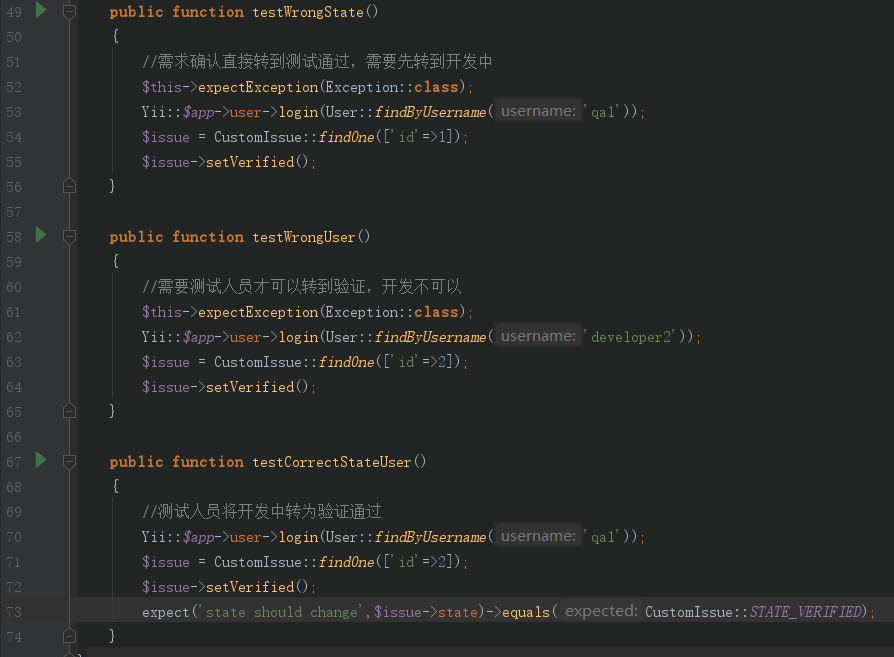
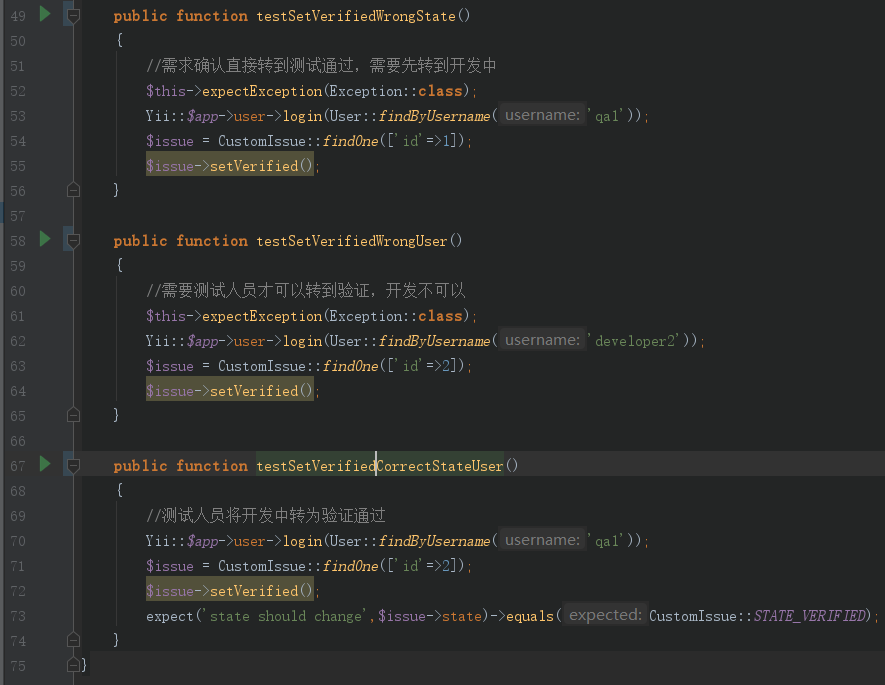
test-code

diff --git a/common/tests/unit/models/custom/CustomIssueTest.php b/common/tests/unit/models/custom/CustomIssueTest.php
@@ -46,7 +46,7 @@ class CustomIssueTest extends \Codeception\Test\Unit
         ];
     }
 
-    public function testWrongState()
+    public function testSetVerifiedWrongState()
     {
         //需求确认直接转到测试通过，需要先转到开发中
         $this->expectException(Exception::class);
@@ -55,7 +55,7 @@ class CustomIssueTest extends \Codeception\Test\Unit
         $issue->setVerified();
     }
 
-    public function testWrongUser()
+    public function testSetVerifiedWrongUser()
     {
         //需要测试人员才可以转到验证，开发不可以
         $this->expectException(Exception::class);
@@ -64,7 +64,7 @@ class CustomIssueTest extends \Codeception\Test\Unit
         $issue->setVerified();
     }
 
-    public function testCorrectStateUser()
+    public function testSetVerifiedCorrectStateUser()
     {
         //测试人员将开发中转为验证通过
         Yii::$app->user->login(User::findByUsername('qa1'));
